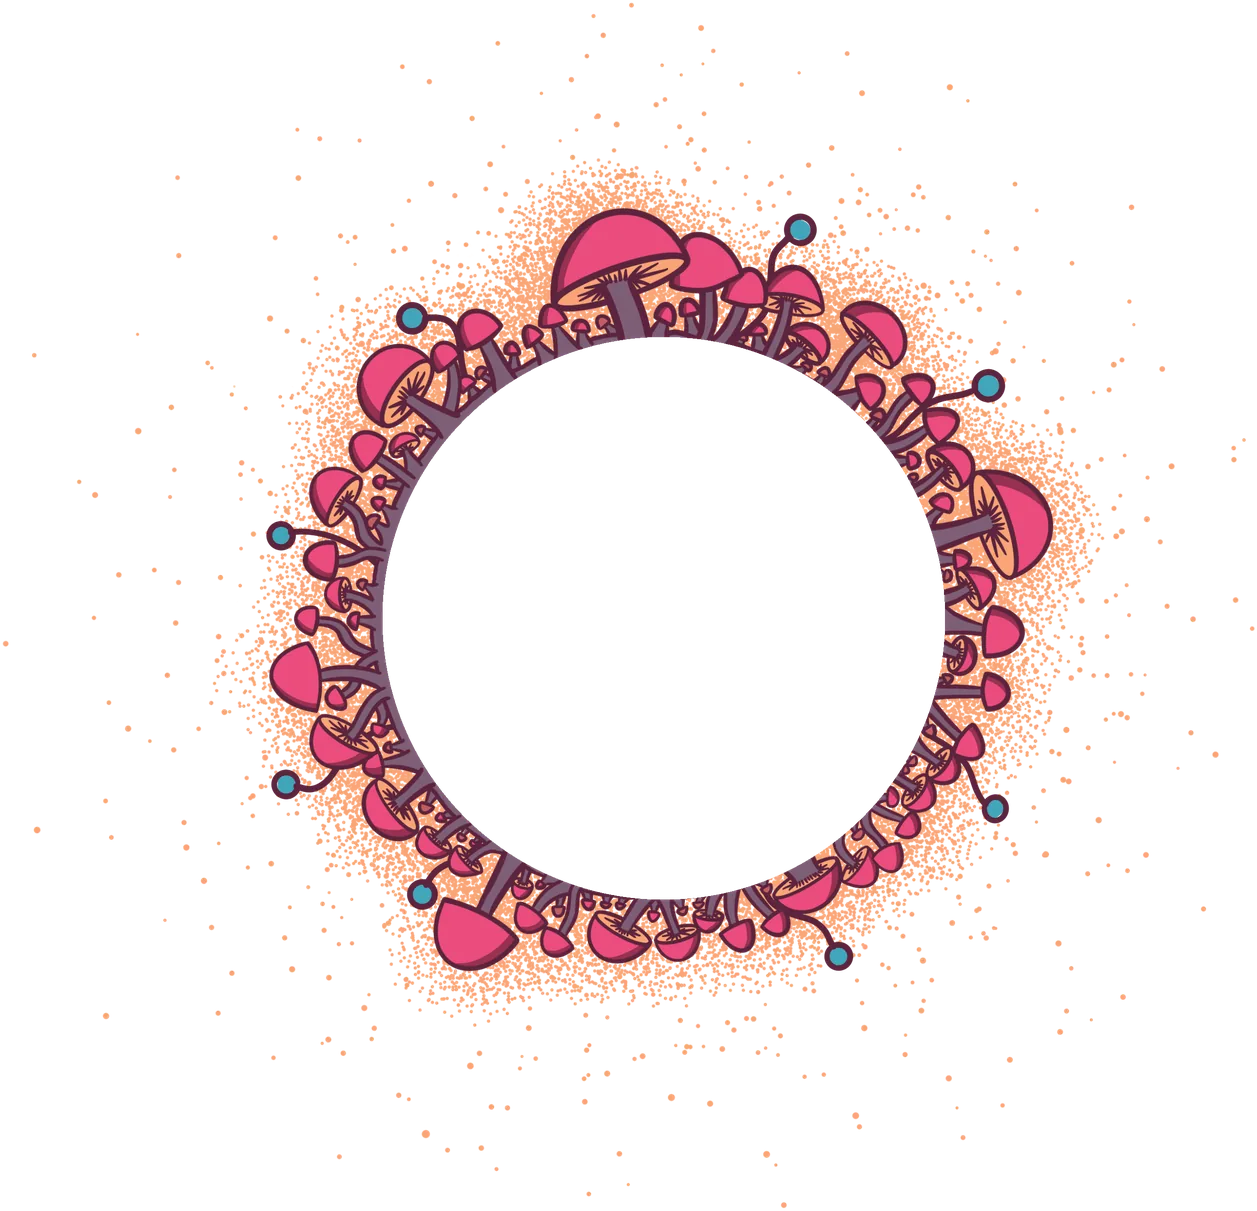
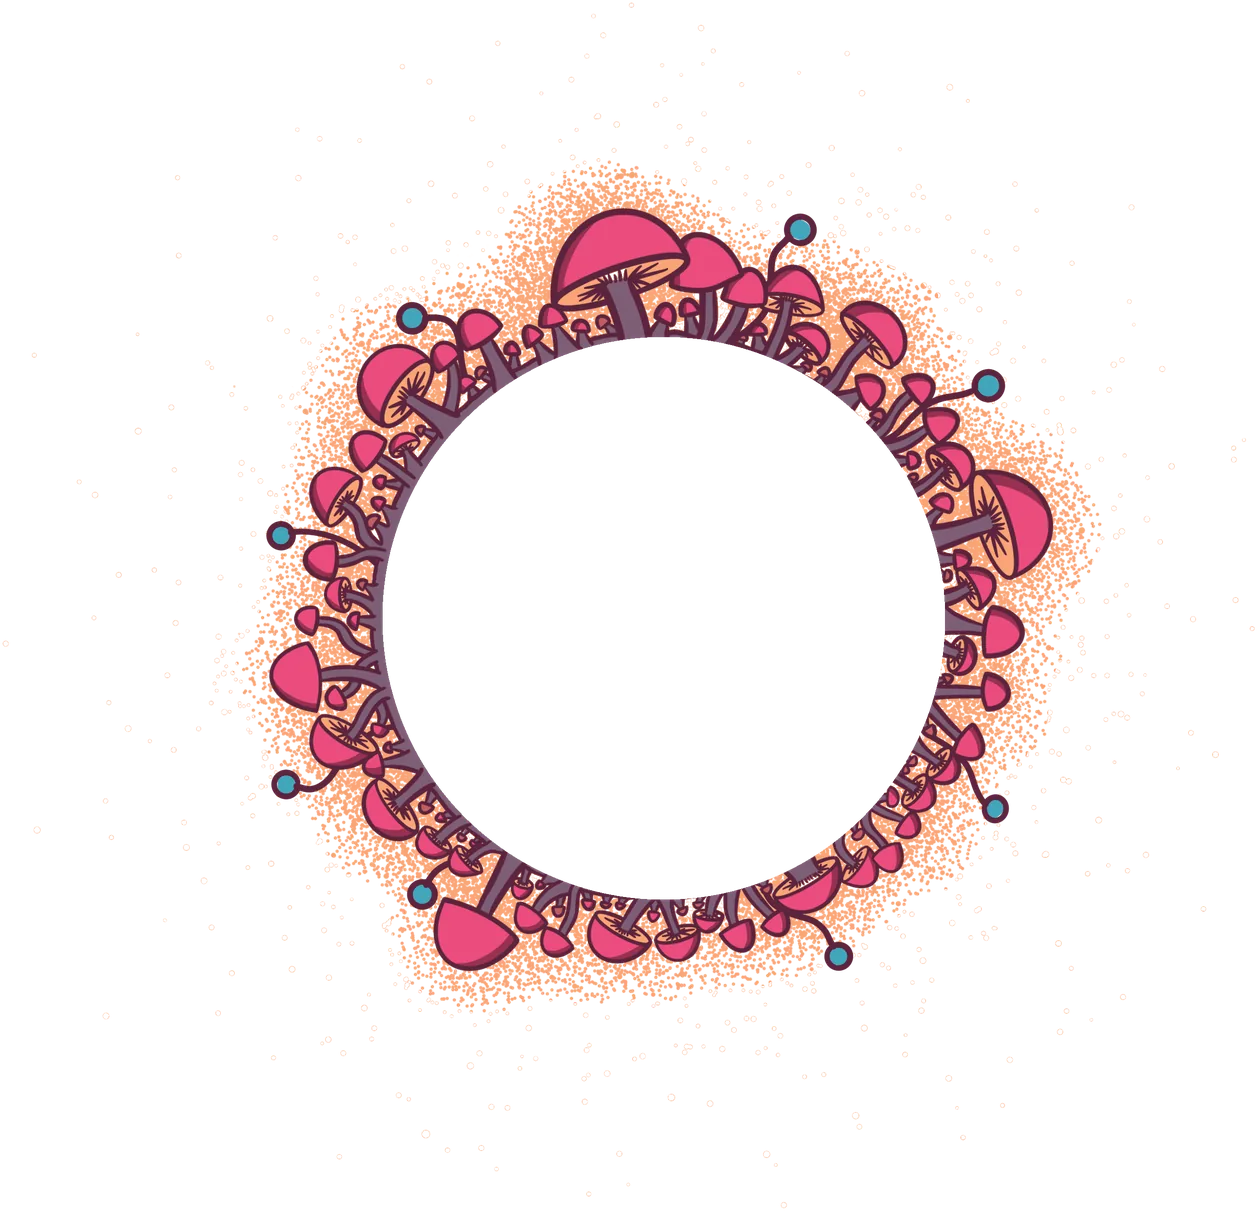
Creatividad: the inside floats in water (organelles bob, the larva bounces off them and the cell wall), visible animated dust, sparse baked dust removed
Claude-Session: https://claude.ai/code/session_01LycLKxTQCdu9mKP8Zovfqs

Changed region(s): [[0.5585, 0.2444, 0.5895, 0.275]]

diff --git a/src/components/scenes/SceneCreatividad.vue b/src/components/scenes/SceneCreatividad.vue
@@ -1,13 +1,16 @@
 <script setup>
     // Creatividad: a living cell-planet crowned with mushrooms, a little larva inside it, in a quiet grey sky.
-    // The layers come from the artwork (public/assets/creatividad, cropped from sheets of 3240px: LAYERS gives each
-    // one's box as a percentage of that square): the crown of mushrooms turns slowly over the interior, the organelles
-    // drift and the larva wanders inside. The colour is code: the interior and the nucleus are plain discs, the
-    // nucleus's stipple and the spore dust around the planet are three.js particles (useStardust), and so are the
-    // faint dots of the sky. Some orange dust is still baked into the crown's picture; the animated dust lives behind it.
+    // The layers come from the artwork (public/assets/creatividad, cropped from sheets of 3240px: PIECES gives each
+    // one's box as a percentage of that square). The crown of mushrooms turns slowly. The inside is a watery system
+    // (useCellWater): every organelle bobs about where it was drawn, and the larva floats slowly, bumping into them
+    // and into the wall of the cell instead of going through, and giving them a nudge. The colour is code: the
+    // interior and the nucleus are plain discs, the nucleus's stipple and the spore dust around the planet are
+    // three.js particles (useStardust), and so are the faint dots of the sky. The thick of the orange dust is still
+    // baked into the crown's picture; the animated dust is what fills the rest, behind and in front of it.
     import { onBeforeUnmount, onMounted, ref, watch } from 'vue';
     import { createParallax, enterLayers } from '../../composables/useParallax.js';
     import { startStardust } from '../../composables/useStardust.js';
+    import { createCellWater } from '../../composables/useCellWater.js';
 
     const props = defineProps({
         card: { type: Object, default: () => ({}) },
@@ -23,32 +26,49 @@
     const crown = ref(null);
     const inside = ref(null);
     const larva = ref(null);
-    const organelles = ref(null);
-    const vesicles = ref(null);
-    const mitochondrion = ref(null);
-    const dots = ref(null);
+    const nucleus = ref(null);
+    const els = {};                    // the floating pieces by id, filled by the template
+    const setEl = (id) => (el) => { els[id] = el; };
     let parallax = null;
     let sky = null;
     let dust = null;
     let front = null;
+    let water = null;
+    let last = null;
+    let tilt = 0;
     let entered = false;
 
     // Where each layer sits, in % of the 3240px square it was drawn in (left, top, width, height)
-    const LAYERS = {
-        crown: { left: 9.475, top: 11.852, w: 78.58, h: 75.71 },
-        organelles: { left: 34.66, top: 33.704, w: 32.407, h: 33.241 },
-        vesicles: { left: 38.148, top: 53.704, w: 5.525, h: 6.79 },
-        mitochondrion: { left: 61.698, top: 45.772, w: 4.321, h: 7.84 },
-        dots: { left: 48.765, top: 35.525, w: 3.426, h: 3.519 },
-        larva: { left: 42.037, top: 39.167, w: 5.031, h: 9.66 },
-    };
+    const CROWN = { left: 9.475, top: 11.852, w: 78.58, h: 75.71 };
+    const LARVA = { left: 42.037, top: 39.167, w: 5.031, h: 9.66 };
     const boxOf = (l) => ({ left: `${l.left}%`, top: `${l.top}%`, width: `${l.w}%`, height: `${l.h}%` });
-    const box = Object.fromEntries(Object.entries(LAYERS).map(([name, l]) => [name, boxOf(l)]));
+    const crownBox = boxOf(CROWN);
+    const larvaBox = boxOf(LARVA);
+    // The pieces that float in the water. `circles` (frame fractions) are what the larva bumps into, `turn` how far
+    // each rocks, in degrees, `sway` how far it wanders, in frame fractions
+    const PIECES = [
+        { id: 'motas', file: 'motas', box: { left: 34.66, top: 33.704, w: 32.407, h: 32.778 }, sway: 0.004, turn: 1 },
+        { id: 'golgi', file: 'golgi', box: { left: 45.093, top: 53.981, w: 16.698, h: 12.963 }, sway: 0.005, turn: 1.5, mass: 8,
+            circles: [[0.541, 0.6225, 0.0155], [0.5423, 0.5926, 0.0137], [0.4991, 0.6336, 0.0108], [0.5225, 0.5988, 0.0103], [0.5454, 0.6543, 0.0103], [0.5148, 0.6265, 0.0101], [0.5083, 0.6049, 0.0099]] },
+        { id: 'bucle', file: 'bucle', box: { left: 34.938, top: 41.142, w: 5.772, h: 13.395 }, sway: 0.006, turn: 3, mass: 3,
+            circles: [[0.3494, 0.4926, 0.0083], [0.3855, 0.4287, 0.0058], [0.3759, 0.5025, 0.005], [0.362, 0.5404, 0.0047], [0.3534, 0.5046, 0.0046], [0.3543, 0.4775, 0.0044], [0.3994, 0.4546, 0.0043]] },
+        { id: 'garabato', file: 'garabato', box: { left: 60.093, top: 39.475, w: 2.5, h: 5.278 }, sway: 0.007, turn: 6, mass: 1.5,
+            circles: [[0.6157, 0.4235, 0.0062], [0.6247, 0.4336, 0.0056], [0.6028, 0.4068, 0.0049], [0.6114, 0.4151, 0.0046]] },
+        { id: 'rulo', file: 'rulo', box: { left: 46.42, top: 52.901, w: 1.914, h: 5.34 }, sway: 0.007, turn: 6, mass: 1.5,
+            circles: [[0.4738, 0.5593, 0.0072], [0.4787, 0.5694, 0.0041], [0.4759, 0.5759, 0.0037], [0.479, 0.5432, 0.0035]] },
+        { id: 'vesiculas', file: 'vesiculas', box: { left: 38.148, top: 53.704, w: 5.525, h: 6.79 }, sway: 0.007, turn: 4, mass: 2,
+            circles: [[0.4091, 0.5704, 0.0235]] },
+        { id: 'mitocondria', file: 'mitocondria', box: { left: 61.698, top: 45.772, w: 4.321, h: 7.84 }, sway: 0.006, turn: 8, mass: 3,
+            circles: [[0.6386, 0.4905, 0.0195], [0.6386, 0.5255, 0.0195]] },
+        { id: 'puntos', file: 'puntos', box: { left: 48.765, top: 35.525, w: 3.426, h: 3.519 }, sway: 0.008, turn: 5 },
+    ].map((p) => ({ ...p, style: boxOf(p.box) }));
 
     // The planet's centre and radius in frame fractions: the interior disc's middle, and where the mushrooms start
     const PLANET = { x: 0.5096, y: 0.5049, r: 0.24 };
     // The nucleus, a disc inside it
     const NUCLEUS = { x: 0.5359, y: 0.4694, r: 0.0585 };
+    const CELL = { x: 0.5096, y: 0.5049, r: 0.18 };           // the interior disc
+    const LARVA_AT = { x: 0.4454, y: 0.452, r: 0.02 };        // where the larva was drawn, and its body
     const frameBox = () => {
         const f = frame.value.getBoundingClientRect();
         const c = frontCanvas.value.getBoundingClientRect();
@@ -80,11 +100,18 @@
         enterLayers([
             { el: planet.value, y: 60, scale: 0.7, duration: 2200 },
             { el: larva.value, y: 0, scale: 0.4, delay: 1200, duration: 1600 },
-            { el: organelles.value, y: 0, scale: 0.9, delay: 600, duration: 2000 },
         ]);
     };
 
     onMounted(() => {
+        water = createCellWater({
+            bounds: CELL,
+            swimmer: LARVA_AT,
+            bodies: [
+                { id: 'nucleus', circles: [[NUCLEUS.x, NUCLEUS.y, NUCLEUS.r]], mass: 12, sway: 0.004 },
+                ...PIECES.map(({ id, circles = [], mass, sway }) => ({ id, circles, mass, sway })),
+            ],
+        });
         parallax = createParallax(root.value, ({ x, y, scroll, t, ramp }) => {
             const s = scroll;
             // The planet hangs, breathing, and follows the pointer a little; the crown turns above the interior
@@ -92,20 +119,26 @@
             planet.value.style.scale = 1 + Math.sin(t * 0.7) * 0.012 * ramp;
             crown.value.style.rotate = `${(t * 1.8 * ramp).toFixed(3)}deg`;
             inside.value.style.translate = `${-x * 6}px ${-y * 4}px`;
-            // The organelles float at their own pace, each a little different
-            organelles.value.style.translate = `${(Math.sin(t * 0.13) * 0.8).toFixed(2)}cqw ${(Math.cos(t * 0.11) * 0.7).toFixed(2)}cqw`;
-            organelles.value.style.rotate = `${(Math.sin(t * 0.09) * 2.5 * ramp).toFixed(2)}deg`;
-            vesicles.value.style.translate = `${(Math.sin(t * 0.23 + 1) * 1.2).toFixed(2)}cqw ${(Math.cos(t * 0.19) * 1.4).toFixed(2)}cqw`;
-            mitochondrion.value.style.translate = `${(Math.cos(t * 0.17) * 1.1).toFixed(2)}cqw ${(Math.sin(t * 0.15 + 2) * 1.5).toFixed(2)}cqw`;
-            mitochondrion.value.style.rotate = `${(Math.sin(t * 0.21) * 14 * ramp).toFixed(2)}deg`;
-            dots.value.style.translate = `${(Math.sin(t * 0.31) * 0.9).toFixed(2)}cqw ${(Math.cos(t * 0.27 + 1) * 0.9).toFixed(2)}cqw`;
-            // The nucleus's stipple follows the planet and the interior it sits on
-            front?.shift(1, -x * 18 - x * 6, -y * 10 + Math.sin(t * 0.5) * 6 * ramp - s * 50 - y * 4);
-            // The larva wanders about inside, unhurried, looking now one way and now the other
-            const wx = Math.sin(t * 0.21) * 5.2 + Math.sin(t * 0.47) * 1.6;
-            const wy = Math.cos(t * 0.17) * 4.2 + Math.sin(t * 0.39) * 1.4;
-            larva.value.style.translate = `${wx.toFixed(2)}cqw ${wy.toFixed(2)}cqw`;
-            larva.value.style.rotate = `${(Math.sin(t * 0.6) * 7 * ramp).toFixed(2)}deg`;
+            // The water: everything inside floats, and the larva bumps into it
+            const dt = last === null ? 0 : t - last;
+            last = t;
+            water.step(dt * ramp, t);
+            const size = frame.value.offsetWidth;
+            PIECES.forEach((p) => {
+                const o = water.offset(p.id);
+                els[p.id].style.translate = `${(o.x * 100).toFixed(3)}cqw ${(o.y * 100).toFixed(3)}cqw`;
+                els[p.id].style.rotate = `${(Math.sin(t * 0.15 + p.sway * 900) * p.turn * ramp + o.x * 120).toFixed(2)}deg`;
+            });
+            const n = water.offset('nucleus');
+            nucleus.value.style.translate = `${(n.x * 100).toFixed(3)}cqw ${(n.y * 100).toFixed(3)}cqw`;
+            // The nucleus's stipple follows the planet, the interior it sits on and the nucleus's own sway
+            front?.shift(1, -x * 18 - x * 6 + n.x * size, -y * 10 + Math.sin(t * 0.5) * 6 * ramp - s * 50 - y * 4 + n.y * size);
+            // The larva floats, leaning into its way and bobbing; a knock makes it squash a little
+            const me = water.swimmer;
+            tilt += (Math.max(-1, Math.min(1, me.vx / 0.012)) * 16 - tilt) * Math.min(1, dt * 1.5);
+            larva.value.style.translate = `${((me.x - LARVA_AT.x) * 100).toFixed(3)}cqw ${((me.y - LARVA_AT.y) * 100 + Math.sin(t * 0.9) * 0.25).toFixed(3)}cqw`;
+            larva.value.style.rotate = `${(tilt + Math.sin(t * 0.6) * 4 * ramp).toFixed(2)}deg`;
+            larva.value.style.scale = 1 + Math.min(me.hit, 0.3) * 0.12;
         });
         sky = startStardust(skyCanvas.value, {
             count: 150, colors: [0x7c4a6e, 0x8e4f72, 0xa95b78], size: [2, 5],
@@ -113,15 +146,15 @@
         });
         // Behind the planet: the animated dust that the baked dust of the crown's picture sits in front of
         dust = startStardust(dustCanvas.value, {
-            count: 360, colors: [0xffb069, 0xff9a5c, 0xffd29a, 0xf08a8a], size: [1.6, 4.6], look: 'soft', spawn: around,
-            drift: 14, twinkle: 0.7, reach: 150, push: 46, parallax: 18,
+            count: 420, colors: [0xffb069, 0xff9a5c, 0xffd29a, 0xf08a8a], size: [2.5, 6.5], look: 'hard', spawn: around,
+            drift: 30, jitter: 0.5, twinkle: 0.8, reach: 150, push: 46, parallax: 18,
         });
         // In front: a few motes drifting across, and the nucleus's stipple (group 1, which follows the planet by hand)
         front = startStardust(frontCanvas.value, {
             groups: [
                 {
-                    count: 70, colors: [0xffb069, 0xffd29a, 0xf08a8a], size: [1.4, 3.6], look: 'soft', spawn: around,
-                    drift: 22, twinkle: 0.7, reach: 150, push: 46, parallax: 26,
+                    count: 110, colors: [0xffb069, 0xffd29a, 0xf08a8a], size: [2.2, 5.5], look: 'hard', spawn: around,
+                    drift: 34, jitter: 0.5, twinkle: 0.8, reach: 150, push: 46, parallax: 26,
                 },
                 {
                     count: 240, colors: [0x86667e, 0x93718a, 0x7d5d75], size: [1.4, 3.4], look: 'hard', spawn: nucleusStipple,
@@ -150,14 +183,11 @@
             <div class="planet" ref="planet">
                 <div class="inside" ref="inside">
                     <div class="disc interior"></div>
-                    <div class="disc nucleus"></div>
-                    <img class="piece" ref="organelles" :style="box.organelles" src="/assets/creatividad/organelos.webp" alt="" draggable="false">
-                    <img class="piece" ref="vesicles" :style="box.vesicles" src="/assets/creatividad/vesiculas.webp" alt="" draggable="false">
-                    <img class="piece" ref="mitochondrion" :style="box.mitochondrion" src="/assets/creatividad/mitocondria.webp" alt="" draggable="false">
-                    <img class="piece" ref="dots" :style="box.dots" src="/assets/creatividad/puntos.webp" alt="" draggable="false">
-                    <img class="piece larva" ref="larva" :style="box.larva" src="/assets/creatividad/larva.webp" alt="" draggable="false">
+                    <div class="disc nucleus" ref="nucleus"></div>
+                    <img v-for="p in PIECES" :key="p.id" :ref="setEl(p.id)" class="piece" :style="p.style" :src="`/assets/creatividad/${p.file}.webp`" alt="" draggable="false">
+                    <img class="piece larva" ref="larva" :style="larvaBox" src="/assets/creatividad/larva.webp" alt="" draggable="false">
                 </div>
-                <img class="piece crown" ref="crown" :style="box.crown" src="/assets/creatividad/crown.webp" alt="" draggable="false">
+                <img class="piece crown" ref="crown" :style="crownBox" src="/assets/creatividad/crown.webp" alt="" draggable="false">
             </div>
         </div>
         <canvas class="sky front" ref="frontCanvas"></canvas>

diff --git a/src/composables/useCellWater.js b/src/composables/useCellWater.js
@@ -1,0 +1,99 @@
+// The inside of a cell is a watery place: everything in it bobs about a little, and what floats bumps into what it meets.
+// Positions are fractions of the scene's square frame. `bodies` are the things that sit in the water (a body is a few
+// circles); they wander a short way from where they were drawn, on a spring, and get shoved when the swimmer hits them.
+// The swimmer (the larva) drifts slowly along a heading that changes by itself, bounces off every body and off the wall
+// of the cell, and the bodies it hits give a little with the blow.
+//   bounds   { x, y, r }       the cell's inside
+//   swimmer  { x, y, r }       where it starts and how big its body is
+//   bodies   [{ id, circles: [[x, y, r], ...], mass, sway }]   sway: how far it wanders (frame fractions)
+// step(dt, t) moves everything on; read swimmer.x/y (absolute) and offset(id) = { x, y } from where the body was drawn.
+
+const TAU = Math.PI * 2;
+
+export function createCellWater({ bounds, swimmer, bodies, speed = 0.011, restitution = 0.55 }) {
+    const me = { x: swimmer.x, y: swimmer.y, vx: 0, vy: 0, r: swimmer.r, heading: Math.random() * TAU, hit: 0 };
+    me.vx = Math.cos(me.heading) * speed;
+    me.vy = Math.sin(me.heading) * speed;
+
+    const list = bodies.map((b, i) => ({
+        id: b.id, circles: b.circles, mass: b.mass ?? 3, sway: b.sway ?? 0.006,
+        x: 0, y: 0, vx: 0, vy: 0, phase: i * 1.7 + Math.random() * 6, rate: 0.17 + (i % 5) * 0.045,
+    }));
+    const byId = Object.fromEntries(list.map((b) => [b.id, b]));
+
+    const step = (dt, t) => {
+        dt = Math.min(dt, 0.05);
+        if (dt <= 0) return;
+
+        // The bodies: a spring back to where they were drawn, a slow current pushing them about, and some water drag
+        list.forEach((b) => {
+            const fx = Math.sin(t * b.rate + b.phase) + 0.5 * Math.sin(t * b.rate * 2.3 + b.phase * 1.3);
+            const fy = Math.cos(t * b.rate * 0.9 + b.phase * 0.7) + 0.5 * Math.cos(t * b.rate * 2.1 + b.phase);
+            const k = 2.4;
+            b.vx += (-k * b.x + k * b.sway * fx * 0.9 - 2.2 * b.vx) * dt;
+            b.vy += (-k * b.y + k * b.sway * fy * 0.9 - 2.2 * b.vy) * dt;
+            b.x += b.vx * dt;
+            b.y += b.vy * dt;
+        });
+
+        // The swimmer: its heading drifts, and its velocity eases towards it so a bounce settles into a new course
+        me.heading += (Math.sin(t * 0.23) * 0.5 + Math.sin(t * 0.61 + 1) * 0.3) * dt;
+        const want = speed * (0.85 + 0.3 * Math.sin(t * 0.17));
+        const ease = Math.min(1, 0.7 * dt);
+        me.vx += (Math.cos(me.heading) * want - me.vx) * ease;
+        me.vy += (Math.sin(me.heading) * want - me.vy) * ease;
+        me.x += me.vx * dt;
+        me.y += me.vy * dt;
+        me.hit = Math.max(0, me.hit - dt);
+
+        // Bumping into bodies: push out of them, bounce, and hand them part of the blow
+        list.forEach((b) => {
+            b.circles.forEach(([cx, cy, cr]) => {
+                const dx = me.x - (cx + b.x);
+                const dy = me.y - (cy + b.y);
+                const min = me.r + cr;
+                const d2 = dx * dx + dy * dy;
+                if (d2 >= min * min) return;
+                const d = Math.sqrt(d2) || 1e-6;
+                const nx = dx / d;
+                const ny = dy / d;
+                const pen = min - d;
+                me.x += nx * pen * 0.85;
+                me.y += ny * pen * 0.85;
+                b.x -= nx * pen * 0.15 * (1 / b.mass);
+                b.y -= ny * pen * 0.15 * (1 / b.mass);
+                const vn = (me.vx - b.vx) * nx + (me.vy - b.vy) * ny;
+                if (vn < 0) {
+                    const j = (-(1 + restitution) * vn) / (1 + 1 / b.mass);
+                    me.vx += j * nx;
+                    me.vy += j * ny;
+                    b.vx -= (j * nx) / b.mass;
+                    b.vy -= (j * ny) / b.mass;
+                    me.heading = Math.atan2(me.vy, me.vx);
+                    me.hit = 0.6;
+                }
+            });
+        });
+
+        // The wall of the cell
+        const wx = me.x - bounds.x;
+        const wy = me.y - bounds.y;
+        const wd = Math.hypot(wx, wy);
+        const reach = bounds.r - me.r;
+        if (wd > reach) {
+            const nx = wx / wd;
+            const ny = wy / wd;
+            me.x = bounds.x + nx * reach;
+            me.y = bounds.y + ny * reach;
+            const vn = me.vx * nx + me.vy * ny;
+            if (vn > 0) {
+                me.vx -= (1 + restitution) * vn * nx;
+                me.vy -= (1 + restitution) * vn * ny;
+                me.heading = Math.atan2(me.vy, me.vx);
+                me.hit = 0.6;
+            }
+        }
+    };
+
+    return { swimmer: me, offset: (id) => byId[id] ?? { x: 0, y: 0 }, step };
+}

diff --git a/CLAUDE.md b/CLAUDE.md
@@ -47,7 +47,7 @@ These cannot see what a real GPU or a real phone does (flicker, disappearing lay
 **Card pages (immersive scenes):** `/card/:id` is a full-screen *stage* (`CardTemplate.vue`) with the card's name over it, and the reading (description, affirmation, invitation) below. What fills the stage is a *scene*, chosen per card in `src/data/cardScenes.js` (`sceneFor(id)`):
 - `ScenePaciencia` (id 27) and `SceneVipassana` (id 31) are built from separate layers that move with depth (pointer / tilt / scroll parallax via `useParallax.js`, plus each layer's own idle motion). Vipassana reuses the landing hero: `useCellField`, `useHeroSpiral` and `useCharacterLife`.
 - `SceneDana` (id 2) and `SceneSincronicidad` (29) are built from the layers of the Collaborate page (`public/assets/share`, `cocreate`, `inmind`), placed as fractions of a square frame so they keep the illustration's composition.
-- `SceneCreatividad` (20) uses its own layers in `public/assets/creatividad` (crown, organelles, larva...), each cropped to its box (fractions of the 3240px original, `LAYERS` in the component). The interior and the nucleus are CSS discs and the nucleus's stipple and the dust are particles. The full-size PNG originals live in `art/` (outside `public/`, so they are not deployed): export from there, never ship PNGs.
+- `SceneCreatividad` (20) uses its own layers in `public/assets/creatividad` (crown, organelles, larva...), each cropped to its box (fractions of the 3240px original, `PIECES` in the component). The inside of the cell is a watery system (`useCellWater.js`): the organelles bob about and the larva floats slowly, bouncing off them and off the cell wall (circles in `PIECES`). The interior and the nucleus are CSS discs; the nucleus's stipple and the dust are particles. The full-size PNG originals live in `art/` (outside `public/`, so they are not deployed): export from there, never ship PNGs.
 - `ScenePanna` (id 3): the line work (Sid, branches, leaves, mushroom outlines, the walls of the forest) is a set of layers in `public/assets/panna`, each cropped to its own box (`pannaLayers.json`, fractions of the original 2160px square). All the colour (sun, Sid's aura, fireflies' halos, blue mushrooms, the mushrooms' pink glow) and the stippled edge of the floor are particles behind the line work, drawn from density maps of the original stipple (`pannaClouds.json`); the floor itself is a drawn SVG silhouette. The spiral from the sun to Sid's forehead and the sparks are `dynamic` particle groups in front. The fireflies, the blue mushrooms, Sid and the sun can be touched (flare + sparks; the sun makes everything answer). The particles stay hidden (`manual` + `reveal()`) until all the drawings are decoded. The centre lives in a square frame; the surroundings are a slightly bigger square whose left and right halves are anchored to the screen's sides, with a vertically flipped copy above it so the forest reaches the top. Card pages let the pointer through the fixed header (see `Card.vue`) so a scene's top can be touched.
 - **Particles and stars are never pictures:** wherever an asset is a field of dots, stars or dust, the scene draws it as real particles instead, with `useStardust.js` (three.js `Points`, one canvas can hold several groups, each one draw call, with `shift(i, x, y)` to follow a layer's parallax and `dynamic` groups that move every frame; `look: 'hard'` for the flat dots of the night skies, `'soft'` for glowing dust or embers; `startStardust` is the safe way to start one from a component).
 - Every other card uses `SceneFlat` (its square illustration, feathered into the card colour, drifting slowly).
